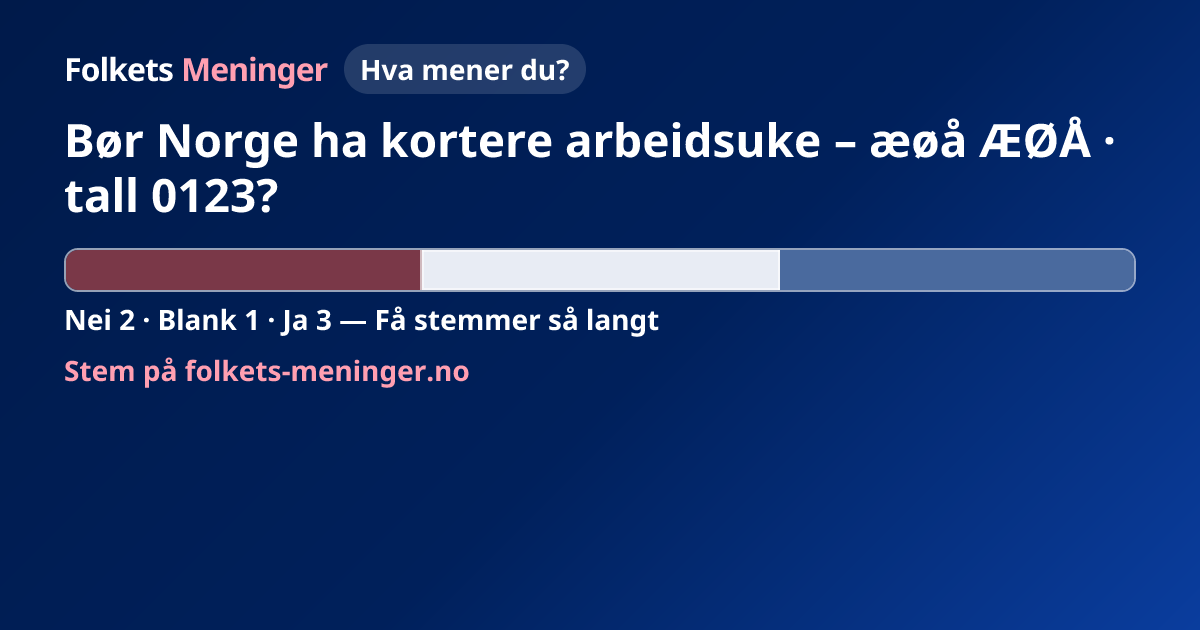
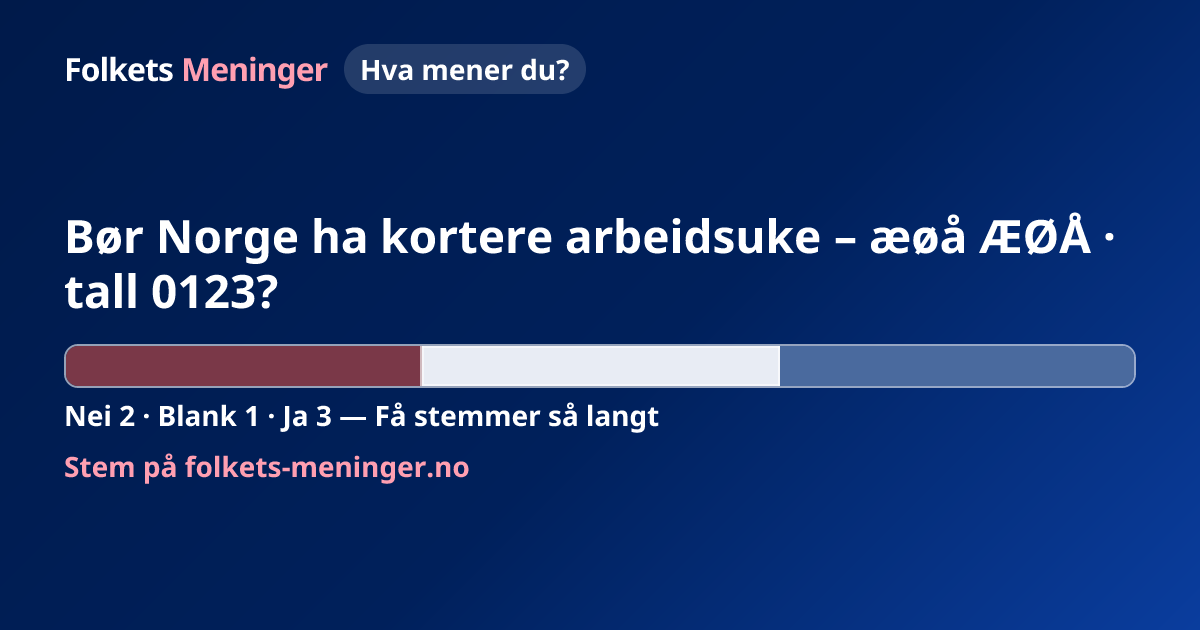
fix(og): latin-700 dual-font measure og sentrert innholdsblokk
Mål tittel med latin-700 per glyf (latin-ext kun ved .notdef).
Senter tittel+bar+CTA i flex:1; behold +12px tittel-til-bar og BAR_OUTLINE.
Hard cut i clampPollOgText får «…». Oppdaterte docs/og-samples.

Changed region(s): [[0.0308, 0.181, 0.9558, 0.6937], [0.0308, 0.7238, 0.4008, 0.7841]]

diff --git a/lib/polls/share-og-title.test.ts b/lib/polls/share-og-title.test.ts
@@ -12,19 +12,23 @@ import {
   resolvePollOgTitleDisplay,
   resolvePollOgTitleDisplayWithMeasurer,
 } from '@/lib/polls/share-og';
-import { loadPollOgTitleMeasurer } from '@/lib/polls/share-og-title-measure';
+import {
+  isNotDefGlyph,
+  loadPollOgTitleMeasurer,
+  loadPollOgTitleMeasurerFonts,
+  resetPollOgTitleMeasurerCacheForTests,
+} from '@/lib/polls/share-og-title-measure';
 
 (globalThis as typeof globalThis & { React: typeof React }).React = React;
-
-/** Longest word-boundary title that fits on 2 lines at 46px / 1060px (Noto 700). */
-const TITLE_83_AT_46PX =
-  'Skal staten innføre nye avgiftsregler for næringsliv og privatpersoner i hele snart';
 
 const TITLE_84_CHARS =
   'Skal staten innføre nye avgiftsregler for næringsliv og privatpersoner i hele landet';
 
 const TITLE_90_CHARS =
   'Skal staten innføre nye avgiftsregler for næringsliv og privatpersoner i hele landet snart';
+
+const TITLE_ALL_CAPS =
+  'SKAL STATEN INNFØRE NYE AVGIFTSREGLER FOR NÆRINGSLIV OG PRIVATPERSONER I HELE LANDET SNART';
 
 const TITLE_WORST_AEOEAA =
   'Bør æøå ÆØÅ innføre nye avgiftsregler for næringsliv og privatpersoner i hele landet snart';
@@ -33,7 +37,18 @@ const TITLE_LONG_WORD = `Skal ${'M'.repeat(120)} vurderes av Stortinget?`;
 
 const TITLE_MAX_RAW = 'W'.repeat(POLL_OG_TITLE_RAW_MAX);
 
+const MEASURED_STRINGS = [
+  TITLE_84_CHARS,
+  TITLE_90_CHARS,
+  TITLE_ALL_CAPS,
+  TITLE_WORST_AEOEAA,
+  TITLE_LONG_WORD,
+  TITLE_MAX_RAW,
+  'æøå ÆØÅ',
+];
+
 async function withMeasurer() {
+  resetPollOgTitleMeasurerCacheForTests();
   return loadPollOgTitleMeasurer();
 }
 
@@ -52,36 +67,40 @@ function assertMeasuredTwoLineTitle(
   if (layout.title.endsWith('…')) {
     assert.match(layout.title, /\S…$/);
   }
+  assert.ok(!measurer.hasNotDefGlyph(layout.title));
 }
 
 test('title-to-bar spacing constant is within requested 8–16px band', () => {
   assert.equal(POLL_OG_TITLE_TO_BAR_EXTRA_GAP_PX, 12);
 });
 
-test('Noto Sans measurement: ~84 char capacity at 46px, æøå worst case at 40px', async () => {
+test('dual-font measurer uses latin-700 widths (not .notdef counting)', async () => {
   const measurer = await withMeasurer();
-  assert.equal(TITLE_83_AT_46PX.length, 83);
-  assert.ok(measurer.fitsTwoLines(TITLE_83_AT_46PX, 46));
-  assert.ok(!measurer.fitsTwoLines(TITLE_84_CHARS, 46));
+  const { latin700, latinExt700 } = await loadPollOgTitleMeasurerFonts();
 
-  let maxLenAt46 = 0;
-  for (let n = 1; n <= 90; n += 1) {
-    const prefix = TITLE_90_CHARS.slice(0, n);
-    if (measurer.fitsTwoLines(prefix, 46)) maxLenAt46 = n;
+  assert.ok(measurer.measureWidth('iiii', 46) < measurer.measureWidth('MMMM', 46));
+
+  for (const sample of MEASURED_STRINGS) {
+    assert.ok(!measurer.hasNotDefGlyph(sample), `unexpected .notdef in ${JSON.stringify(sample)}`);
   }
-  assert.ok(maxLenAt46 >= 80 && maxLenAt46 <= 84);
 
-  assert.ok(measurer.fitsTwoLines(TITLE_WORST_AEOEAA, 40));
-  assert.ok(!measurer.fitsTwoLines(TITLE_90_CHARS, 46));
+  for (const char of 'æøåÆØÅ') {
+    assert.ok(!isNotDefGlyph(latin700, char), `${char} should exist in latin-700`);
+    assert.ok(isNotDefGlyph(latinExt700, char), `${char} should not be measured from latin-ext alone`);
+  }
+
+  assert.equal(TITLE_84_CHARS.length, 84);
+  assert.ok(measurer.fitsTwoLines(TITLE_84_CHARS, 46));
+  assert.ok(!measurer.fitsTwoLines(TITLE_ALL_CAPS, 46));
 });
 
-test('83-, 84-, 90-, max-length, æøå and long-word titles resolve on word boundaries', async () => {
+test('84-, 90-, caps, max-length, æøå and long-word titles resolve on word boundaries', async () => {
   const measurer = await withMeasurer();
 
   for (const raw of [
-    TITLE_83_AT_46PX,
     TITLE_84_CHARS,
     TITLE_90_CHARS,
+    TITLE_ALL_CAPS,
     TITLE_MAX_RAW,
     TITLE_WORST_AEOEAA,
     TITLE_LONG_WORD,
@@ -90,30 +109,34 @@ test('83-, 84-, 90-, max-length, æøå and long-word titles resolve on word bou
     assertMeasuredTwoLineTitle(measurer, layout);
   }
 
-  const at83 = resolvePollOgTitleDisplayWithMeasurer(TITLE_83_AT_46PX, measurer);
-  assert.equal(at83.fontSize, 46);
-  assert.equal(at83.title, TITLE_83_AT_46PX);
-
   const at84 = resolvePollOgTitleDisplayWithMeasurer(TITLE_84_CHARS, measurer);
-  assert.equal(at84.fontSize, 40);
+  assert.equal(at84.fontSize, 46);
+  assert.equal(at84.title, TITLE_84_CHARS);
+
+  const caps = resolvePollOgTitleDisplayWithMeasurer(TITLE_ALL_CAPS, measurer);
+  assert.equal(caps.fontSize, 40);
+  assert.ok(caps.title.endsWith('…'));
 
   const at90 = resolvePollOgTitleDisplayWithMeasurer(TITLE_90_CHARS, measurer);
   assert.equal(at90.fontSize, 40);
 
-  const longWord = resolvePollOgTitleDisplayWithMeasurer(TITLE_LONG_WORD, measurer);
-  assert.ok(longWord.title.endsWith('…'));
+  const maxRaw = resolvePollOgTitleDisplayWithMeasurer(TITLE_MAX_RAW, measurer);
+  assert.ok(maxRaw.title.endsWith('…'));
 });
 
-test('clampPollOgText respects word boundaries before ellipsis', () => {
+test('clampPollOgText adds ellipsis on hard cut (no spaces)', () => {
+  assert.ok(clampPollOgText('W'.repeat(130), 40).endsWith('…'));
   const long = `${'Skal staten '.repeat(20)}avslutning`;
   const clamped = clampPollOgText(long, 96);
   assert.ok(pollOgTitleEndsWithWordBoundaryEllipsis(clamped));
+  assert.ok(clamped.endsWith('…'));
 });
 
 test('sample titles render 1200×630 OG PNGs', async () => {
   for (const [id, title] of [
-    ['og-title-83', TITLE_83_AT_46PX],
+    ['og-title-84', TITLE_84_CHARS],
     ['og-title-90', TITLE_90_CHARS],
+    ['og-title-caps', TITLE_ALL_CAPS],
     ['og-title-max', TITLE_MAX_RAW],
     ['og-title-aegoesaa', TITLE_WORST_AEOEAA],
     ['og-title-long-word', TITLE_LONG_WORD],

diff --git a/lib/polls/share-og-title-measure.ts b/lib/polls/share-og-title-measure.ts
@@ -9,9 +9,61 @@ export type PollOgTitleMeasurer = {
   measureWidth(text: string, fontSize: number): number;
   lineCount(text: string, fontSize: number): number;
   fitsTwoLines(text: string, fontSize: number): boolean;
+  /** True if any character would use .notdef in both faces. */
+  hasNotDefGlyph(text: string): boolean;
 };
 
 let measurerPromise: Promise<PollOgTitleMeasurer> | null = null;
+
+function glyphForChar(font: opentype.Font, char: string): opentype.Glyph {
+  return font.charToGlyph(char);
+}
+
+export function isNotDefGlyph(font: opentype.Font, char: string): boolean {
+  const glyph = glyphForChar(font, char);
+  return glyph.index === 0 || glyph.name === '.notdef';
+}
+
+function glyphAdvance(font: opentype.Font, char: string, fontSize: number): number {
+  const glyph = glyphForChar(font, char);
+  const scale = fontSize / font.unitsPerEm;
+  return (glyph.advanceWidth ?? 0) * scale;
+}
+
+/** Prefer latin-700; fall back to latin-ext-700 only when latin lacks the glyph. */
+export function measurePollOgTextWidth(
+  latin700: opentype.Font,
+  latinExt700: opentype.Font,
+  text: string,
+  fontSize: number,
+): number {
+  let width = 0;
+  for (const char of text) {
+    if (!isNotDefGlyph(latin700, char)) {
+      width += glyphAdvance(latin700, char, fontSize);
+      continue;
+    }
+    if (!isNotDefGlyph(latinExt700, char)) {
+      width += glyphAdvance(latinExt700, char, fontSize);
+      continue;
+    }
+    width += glyphAdvance(latin700, char, fontSize);
+  }
+  return width;
+}
+
+export function pollOgTextHasNotDefGlyph(
+  latin700: opentype.Font,
+  latinExt700: opentype.Font,
+  text: string,
+): boolean {
+  for (const char of text) {
+    if (isNotDefGlyph(latin700, char) && isNotDefGlyph(latinExt700, char)) {
+      return true;
+    }
+  }
+  return false;
+}
 
 function breakLongToken(
   token: string,
@@ -33,12 +85,7 @@ function breakLongToken(
   return parts.length > 0 ? parts : [token];
 }
 
-function wrapLines(
-  text: string,
-  fontSize: number,
-  maxWidth: number,
-  measureWidth: (value: string) => number,
-): string[] {
+function wrapLines(text: string, measureWidth: (value: string) => number): string[] {
   const words = text.split(/\s+/).filter(Boolean);
   if (words.length === 0) return [];
 
@@ -49,13 +96,13 @@ function wrapLines(
 
   for (const token of tokens) {
     const candidate = line ? `${line} ${token}` : token;
-    if (measureWidth(candidate) <= maxWidth) {
+    if (measureWidth(candidate) <= POLL_OG_TITLE_MAX_WIDTH) {
       line = candidate;
       continue;
     }
     if (line) lines.push(line);
-    line = measureWidth(token) <= maxWidth ? token : token;
-    if (measureWidth(line) > maxWidth) {
+    line = measureWidth(token) <= POLL_OG_TITLE_MAX_WIDTH ? token : token;
+    if (measureWidth(line) > POLL_OG_TITLE_MAX_WIDTH) {
       for (const part of breakLongToken(line, measureWidth)) {
         lines.push(part);
       }
@@ -67,35 +114,45 @@ function wrapLines(
   return lines;
 }
 
-export function createPollOgTitleMeasurer(font: opentype.Font): PollOgTitleMeasurer {
+export function createDualFontPollOgTitleMeasurer(
+  latin700: opentype.Font,
+  latinExt700: opentype.Font,
+): PollOgTitleMeasurer {
   const measureWidth = (text: string, fontSize: number) =>
-    font.getAdvanceWidth(text, fontSize);
+    measurePollOgTextWidth(latin700, latinExt700, text, fontSize);
 
   return {
     measureWidth,
     lineCount(text, fontSize) {
-      return wrapLines(text, fontSize, POLL_OG_TITLE_MAX_WIDTH, (value) =>
-        measureWidth(value, fontSize),
-      ).length;
+      return wrapLines(text, (value) => measureWidth(value, fontSize)).length;
     },
     fitsTwoLines(text, fontSize) {
       return this.lineCount(text, fontSize) <= POLL_OG_TITLE_MAX_LINES;
     },
+    hasNotDefGlyph(text) {
+      return pollOgTextHasNotDefGlyph(latin700, latinExt700, text);
+    },
   };
 }
 
-/** Noto Sans 700 latin-ext — same subset Satori uses for æøå in OG cards. */
+/** Noto Sans 700 latin + latin-ext — matches Satori fallback pairing for OG titles. */
 export async function loadPollOgTitleMeasurer(): Promise<PollOgTitleMeasurer> {
   if (measurerPromise) return measurerPromise;
 
   measurerPromise = (async () => {
     const faces = await loadOgFonts();
+    const latin700 = faces[2];
     const latinExt700 = faces[3];
+    if (!latin700 || latin700.weight !== 700) {
+      throw new Error('loadPollOgTitleMeasurer: expected latin 700 Noto Sans face');
+    }
     if (!latinExt700 || latinExt700.weight !== 700) {
       throw new Error('loadPollOgTitleMeasurer: expected latin-ext 700 Noto Sans face');
     }
-    const font = opentype.parse(latinExt700.data);
-    return createPollOgTitleMeasurer(font);
+    return createDualFontPollOgTitleMeasurer(
+      opentype.parse(latin700.data),
+      opentype.parse(latinExt700.data),
+    );
   })();
 
   return measurerPromise;
@@ -104,4 +161,16 @@ export async function loadPollOgTitleMeasurer(): Promise<PollOgTitleMeasurer> {
 /** Test hook: reset memoized font (unit tests only). */
 export function resetPollOgTitleMeasurerCacheForTests(): void {
   measurerPromise = null;
+}
+
+/** Test hook: load parsed font pair for glyph assertions. */
+export async function loadPollOgTitleMeasurerFonts(): Promise<{
+  latin700: opentype.Font;
+  latinExt700: opentype.Font;
+}> {
+  const faces = await loadOgFonts();
+  return {
+    latin700: opentype.parse(faces[2]!.data),
+    latinExt700: opentype.parse(faces[3]!.data),
+  };
 }

diff --git a/lib/polls/share-og.tsx b/lib/polls/share-og.tsx
@@ -40,7 +40,6 @@ export const POLL_OG_TITLE_RAW_MAX = 130;
 const CARD_PADDING_Y = 44;
 const CARD_PADDING_BOTTOM = 32;
 const CARD_PADDING_X = 64;
-const CARD_BODY_GAP = 18;
 
 /** Muted bar fills when totals are below proportional threshold (no opacity on navy). */
 const LOW_SAMPLE_BAR_SEGMENT: Record<'nei' | 'blank' | 'ja', { background: string }> = {
@@ -58,7 +57,9 @@ export function clampPollOgText(value: string, max: number): string {
   if (trimmed.length <= max) return trimmed;
   const cut = trimmed.slice(0, max - 1);
   const lastSpace = cut.lastIndexOf(' ');
-  return `${(lastSpace > 20 ? cut.slice(0, lastSpace) : cut).trimEnd()}…`;
+  const body = (lastSpace > 20 ? cut.slice(0, lastSpace) : cut).trimEnd();
+  if (body.length === 0) return '…';
+  return `${body}…`;
 }
 
 /** True when clampPollOgText added an ellipsis at a word boundary (not a hard slice). */
@@ -228,8 +229,6 @@ export async function renderPollShareOgImage(
           height: '100%',
           display: 'flex',
           flexDirection: 'column',
-          justifyContent: 'flex-start',
-          gap: CARD_BODY_GAP,
           padding: `${CARD_PADDING_Y}px ${CARD_PADDING_X}px ${CARD_PADDING_BOTTOM}px ${CARD_PADDING_X}px`,
           fontFamily: OG_FONT_FAMILY,
           color: '#ffffff',
@@ -256,31 +255,41 @@ export async function renderPollShareOgImage(
           </div>
         </div>
 
-        <div style={{ display: 'flex', flexDirection: 'column', gap: 14 }}>
-          <div
-            style={{
-              ...titleBoxStyle(titleSize),
-              marginBottom: POLL_OG_TITLE_TO_BAR_EXTRA_GAP_PX,
-            }}
-          >
-            {title}
-          </div>
-          {summary ? (
+        <div
+          style={{
+            display: 'flex',
+            flex: 1,
+            flexDirection: 'column',
+            justifyContent: 'center',
+            minHeight: 0,
+          }}
+        >
+          <div style={{ display: 'flex', flexDirection: 'column', gap: 14 }}>
             <div
               style={{
-                display: 'flex',
-                fontSize: OG_TEXT_MIN_PX,
-                lineHeight: 1.3,
-                color: 'rgba(255,255,255,0.82)',
-                maxWidth: 980,
-                maxHeight: Math.round(OG_TEXT_MIN_PX * 1.3 * 2),
-                overflow: 'hidden',
+                ...titleBoxStyle(titleSize),
+                marginBottom: POLL_OG_TITLE_TO_BAR_EXTRA_GAP_PX,
               }}
             >
-              {summary}
+              {title}
             </div>
-          ) : null}
-          {pollResultsBar(totals)}
+            {summary ? (
+              <div
+                style={{
+                  display: 'flex',
+                  fontSize: OG_TEXT_MIN_PX,
+                  lineHeight: 1.3,
+                  color: 'rgba(255,255,255,0.82)',
+                  maxWidth: 980,
+                  maxHeight: Math.round(OG_TEXT_MIN_PX * 1.3 * 2),
+                  overflow: 'hidden',
+                }}
+              >
+                {summary}
+              </div>
+            ) : null}
+            {pollResultsBar(totals)}
+          </div>
         </div>
       </div>
     ),
